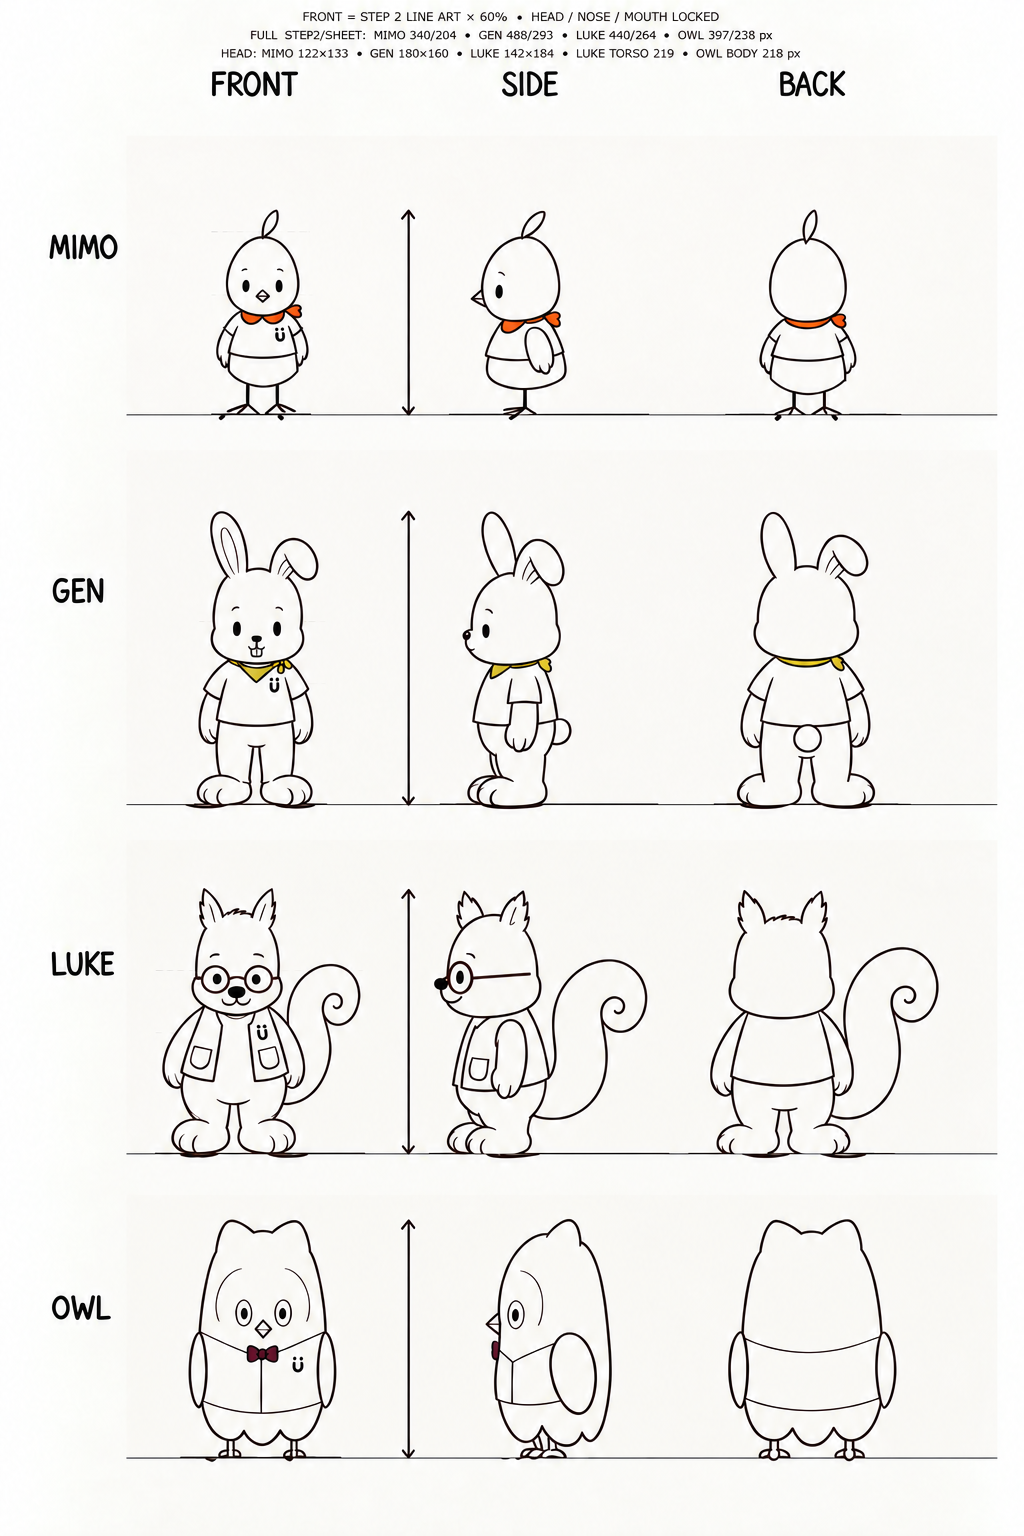
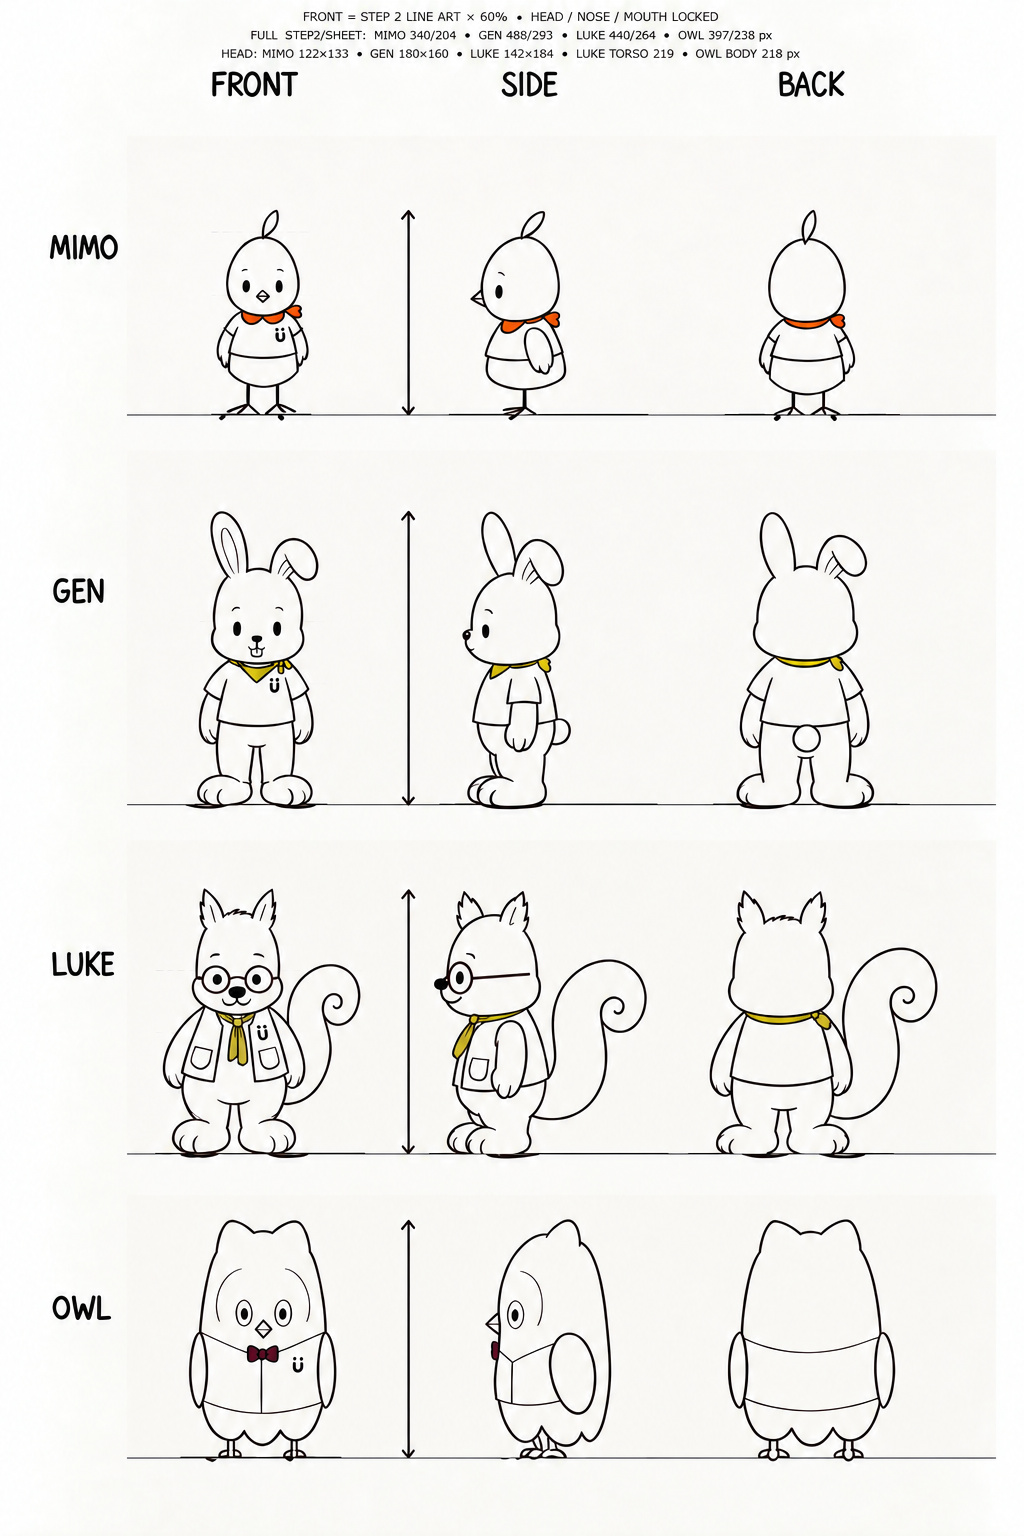
Update Luke accessories and step 4 limb constraints

diff --git a/planning/style-studies/output-process.html b/planning/style-studies/output-process.html
@@ -146,13 +146,13 @@
       {stepLabel:"STEP 1｜成人性の表現方針",title:"成人らしさを、人型化せずどの身体形式で表すか",note:"A＝SMALL MASCOT、B＝柔らかな成人マスコット、C＝人型成人を比較し、Aを採用する。Mimo・Gen・Lukeに加え、フクロウも大きな頭部量感、短い身体、小さな足を持つAへ統合する。成人性は長い脚や服装ではなく、控えめな顔、安定した立ち方、役割に合う反応で表す。",file:"outputs/groups/13-main-three-adult-mascot-policy-abc-comparison-v1.png",status:"A・SMALL MASCOT FIX",statusClass:"current"},
       {stepLabel:"STEP 2｜年齢感・頭身・相対身長",title:"A案を四人へ適用したとき、正面の頭身と身長差をどうするか",note:"STEP 1のA案だけを身体方針に使い、Mimo・Gen・Luke・フクロウを同じ接地線・同じ1536×1024座標系で正面化した。現実の体格差が直感的に伝わるよう、Mimoは一枚羽を含む全身を同比率で縮小し、シルエット全高を約340pxへ変更。フクロウ約397pxより明確に低く、四人の中で最小とした。Lukeも全身を約6%縮小して全高約440pxとし、Gen約488pxとの身長差を明確化。フクロウより少し高い位置を保ちながら、ぽっちゃりした胴体、大きな尻尾、丸い黒目、大きな丸鼻、広い口、細く短い眉は維持した。Genは鼻と口を小さく抑え、フクロウは幅のある頭胴一体型、短い翼、小さな足、本人の近用眼鏡を維持する。",file:"outputs/groups/main-three-owl-step1a-scale-check-v4-luke-brows.png",status:"Mimo最小・Luke約440px・四人の体格差 要確認",statusClass:"current"},
       {stepLabel:"STEP 2｜目・眼鏡の役割試作",title:"眼鏡をLumiからLukeへ移し、目の構造で役割を分けるとどう見えるか",note:"確定済みの身長・頭部・体型・配置は変更せず、顔の内部記号だけを比較する試作。Mimoは小さな点目を維持。Genは黒目の大きさを変えず、目の中心間距離だけを約6%狭め、既存の極小の鼻とW型の口の下へ、ごく小さな前歯2本を追加した。Lukeは黒目・眉・大きな横長鼻・W型の口を維持し、細部を見る作業時の小さな丸眼鏡を追加。Lumiは眼鏡を外し、旧レンズより小さい近接した白目と小さな黒目へ変更した。常用眼鏡の所有者を決める前に、Genのウサギらしさ、Lukeの観察性、Lumiの正面性が強まりすぎないかを確認する。",file:"outputs/groups/main-three-owl-step2-eye-glasses-transfer-prototype-v1.png",status:"Gen前歯・Luke丸眼鏡・Lumi白目 試作",statusClass:"current"},
-      {stepLabel:"STEP 2｜小物とアプリ配色試作",title:"身体を白く保ったまま、小さな色面で四人を識別できるか",note:"線を共通のダークブラウン #291712、背景と身体を白 #FFFFFFに揃え、小物だけへアプリ色を適用した。将来Mimoの身体を黄色にすることを想定し、丸襟と一体化した短い片結びスカーフはオレンジ #FF511B。Genは胸の高い位置で終わる三角ネッカチーフを黄 #D7C862。Lukeは追加の首飾りを避け、眼鏡フレームを線画と馴染むダークブラウン #291712。Lumiは嘴の下の小さな蝶ネクタイを紫 #7D2741とした。色面は全身の約2〜3%を上限とし、子どもより動物へ視線が集まりすぎないかを確認する。",file:"outputs/groups/main-three-owl-step2-accessory-color-prototype-v1.png",status:"Mimo橙・Gen黄・Luke茶・Lumi紫 試作",statusClass:"current"},
-      {stepLabel:"STEP 2｜PIXEL MEASUREMENT",title:"同じ1536×1024画像上で、四人の各パーツをどう比較するか",note:"最新版のSTEP 2正面PNGを描き直さず、1536×1024の同じ位置・同じピクセルで1:1配置し、その上へ寸法線だけを追加した。したがって計測図内の四人は正面比較図と完全に同じ相対比率で、Genの小さな鼻と口、Lukeの大きな丸鼻と広い口、眉、ぽっちゃりした輪郭もそのまま維持される。寸法文字は体型や尻尾へ重ならない外側の余白へ配置した。Mimoは一枚羽を含む全高340px・頭幅122px・頭高133px、Genは全高488px・頭幅180px・頭高160px、Lukeは全高440px・頭幅142px・頭高184px・胴幅219px。頭胴が連続するフクロウは、全高397px・身体外形幅218px・顔盤173×185px・翼長146pxとして記録する。眼鏡は内部記号のため外形寸法へ含めない。縦長チャット背景でMimoの全高を620pxとする場合は同率換算で、Gen 890px、Luke 802px、フクロウ724px。ポーズを変えても全身を一括拡縮し、各パーツ比率を維持する。",file:"outputs/groups/main-three-owl-step1a-pixel-guide.png",status:"顔造形・体型を1:1維持／寸法文字整理",statusClass:"current"},
+      {stepLabel:"STEP 2｜小物とアプリ配色試作",title:"身体を白く保ったまま、小さな色面で四人を識別できるか",note:"線を共通のダークブラウン #291712、背景と身体を白 #FFFFFFに揃え、小物だけへアプリ色を適用した。将来Mimoの身体を黄色にすることを想定し、丸襟と一体化した短い片結びスカーフはオレンジ #FF511B。Genは胸の高い位置で終わる三角ネッカチーフを黄 #D7C862。Lukeは黒目を通常顔用にわずかに小さくし、細く小さい丸眼鏡を少し低い位置へ掛け、首を締めて見せない細幅の前結びスカーフを黄 #D7C862とした。Lumiは嘴の下の小さな蝶ネクタイを紫 #7D2741とした。色面は全身の約2〜3%を目安とし、子どもより動物へ視線が集まりすぎないかを確認する。",file:"outputs/groups/main-three-owl-step2-accessory-color-prototype-v1.png",status:"Mimo橙・Gen黄・Luke黄スカーフ＋丸眼鏡・Lumi紫 試作",statusClass:"current"},
+      {stepLabel:"STEP 2｜PIXEL MEASUREMENT",title:"同じ1536×1024画像上で、四人の各パーツをどう比較するか",note:"小物を検討する前の正面形を、1536×1024の同じ位置・同じピクセルで1:1配置し、その上へ寸法線だけを追加した。計測図ではスカーフやLukeの眼鏡を付けず、外形と顔・体格の基準だけを確認する。Genの小さな鼻と口、Lukeの通常顔用にわずかに小さくした黒目、大きな丸鼻、広い口、眉、ぽっちゃりした輪郭を維持する。Mimoは全高340px・頭幅122px・頭高133px、Genは全高488px・頭幅180px・頭高160px、Lukeは全高440px・頭幅142px・頭高184px・胴幅219px。フクロウは全高397px・身体外形幅218px・顔盤173×185px・翼長146pxとして記録する。縦長背景では全身を一括拡縮し、各パーツ比率を維持する。",file:"outputs/groups/main-three-owl-step1a-pixel-guide.png",status:"小物なし・顔造形・体型を1:1維持",statusClass:"current"},
       {type:"note",label:"STEP 2 ACCEPTANCE｜正面FIX条件",text:"①三人とも幼児ではなく小さな成人に見える、②同じ地面と縮尺で相対身長を比較できる、③頭部が身体を圧迫しない、④正面シルエットだけで識別できる。承認後、このPNGをSTEP 3の唯一の形状参照にする。"},
-      {stepLabel:"STEP 3｜三方向の立体整合",title:"FIXした正面形を変えず、横・後ろをどう成立させるか",note:"正面列は再生成せず、STEP 2で確定した四人の線画をすべて共通60%で直接配置した。SIDE／BACKも各輪郭の最上点から接地までを測り、縦横比を保った一括拡縮で同じ行のFRONTと全高を一致させた。原寸／三面図内の三方向共通全高はMimo 340／204px、Gen 488／293px、Luke 440／264px、フクロウ397／238px。各行の正面へ全高寸法線を付け、頭部原寸もMimo 122×133px、Gen 180×160px、Luke 142×184px、Luke胴幅219px、フクロウ身体幅218pxとして画像上部へ明記した。GenのSIDE／BACKは正面の横に広い柔らかな四角頭を基準に、側面の後頭部を立て、低い顎と控えめな奥行き、直立耳と折れ耳の付け根を整合。LukeのSIDE／BACKは正面の低い幅広丸頭を基準に、頬と下顔面の量感、大きな丸い鼻先、左右の毛耳の間隔、首と低い尻尾の付け根を整合した。Genの極小の鼻と短い口、Lukeの丸い黒目・細い眉・大きな横長鼻・広いW型の口はSTEP 2から維持する。Lukeは肩幅を広げず、首元から肩先・上腕へ続く線を緩い曲線にし、SIDE／BACKでも上背部を丸く接続して、ぽっちゃりした体型と軽い猫背が一続きに見えるよう整えた。姿勢差は、Mimo＝足元を保った軽い前傾、Gen＝直立・中央重心、Luke＝頭が胸より少し前へ出る軽い猫背と片足寄り、フクロウ＝首を引いて上体をわずかに後ろへ置く姿勢とし、いずれも約5度以内に抑えた。縮小時は四人・三方向へ同じ線濃度補正を一度だけ適用し、輪郭形状を膨張させず線の見え方を揃えた。",file:"outputs/groups/main-three-owl-small-mascot-turnaround.png",status:"Luke肩の丸み・三方向同高FIX",statusClass:"current"},
+      {stepLabel:"STEP 3｜三方向の立体整合",title:"FIXした正面形を変えず、横・後ろをどう成立させるか",note:"小物なしの正面形を共通60%で配置し、SIDE／BACKも縦横比を保った一括拡縮で同じ行のFRONTと全高を一致させた。原寸／三面図内の三方向共通全高はMimo 340／204px、Gen 488／293px、Luke 440／264px、フクロウ397／238px。Lukeは通常顔用の小さめの黒目を正面と横で対応させ、横は見える目を1つ、後ろは顔パーツなしとする。眼鏡・スカーフなどの小物はこの立体確認には追加しない。Lukeの首元から肩先・上腕へ続く緩い曲線、ぽっちゃりした胴体、軽い猫背、大きなしっぽの付け根を三方向で維持する。",file:"outputs/groups/main-three-owl-small-mascot-turnaround.png",status:"小物なし・Luke肩の丸み・三方向同高FIX",statusClass:"current"},
       {type:"note",label:"STEP 3 ACCEPTANCE｜三面図FIX条件",text:"正面の頭部外形・耳位置・顔パーツがSTEP 2と同一／各行のFRONT・SIDE・BACKは最上点から接地まで同じ全高／Genの柔らかな四角頭・極小の鼻・短い口と、Lukeの低い幅広丸頭・大きな横長鼻・広いW型の口を取り違えない／三方向の肩・腰・接地線が対応できる／Mimoの軽い前傾、Genの直立、Lukeの軽い猫背、フクロウのわずかな後傾が約5度以内で読める／耳・冠羽・尻尾・翼の付け根が説明できる／フクロウの眼鏡は正面と横だけに現れ、後ろでは保持線を増やさない。ここでは衣装装飾を増やさない。"},
-      {stepLabel:"STEP 4｜服・手・線の制約",title:"手足を独立させる案と、胴体へつなげる案を比べる",beforeFile:"outputs/groups/50-main-three-small-mascot-feedback-constraints-turnaround-v2-luke-face-lock.png",afterFile:"outputs/groups/51-main-four-small-mascot-step4-integrated-limbs-v1.png",beforeLabel:"手足を独立パーツとして残す",afterLabel:"元の体型のまま接続線だけを弱める",note:"両案とも最新STEP 3の頭部・胴体・全高・相対身長・足形と、短丈の服・四人共通の小さなUを維持する。その上へSTEP 2試作の目と小物を同条件で反映した。Mimoは橙 #FF511Bの短い片結びスカーフ、Genは近い黒目・小さな前歯2本・黄 #D7C862の短いネッカチーフ、Lukeはダークブラウン #291712の小さな丸眼鏡、Lumiは眼鏡を外した白目＋黒目と紫 #7D2741の小さな蝶ネクタイ。SIDE／BACKでは首帯・結び目・眼鏡の見える範囲を立体に合わせ、背面へ不要な顔パーツを増やさない。右案は形を作り直さず、肩・手首などの接続線だけを減らした。MimoとLumiの細い鳥脚・三つ叉の足も左案と同じ造形を保持する。",points:["STEP 2の目・小物を三方向へ反映","元の体型・足形・Uを固定","手足の接続線だけを比較"]},
-      {type:"note",label:"STEP 4 ACCEPTANCE｜制約適用条件",text:"服・目・小物を加えてもSTEP 3の輪郭と接地位置が変わらない／Mimo橙・Gen黄・Luke茶・Lumi紫の色役割を左右案で統一／Mimoの正面スカーフは尖った三角形にせず、丸い左右2片＋片側の短い結び目を維持／Genの前歯は正面と必要な横角度だけに現れる／Lukeの眼鏡は正面と横だけに現れ、後ろへ保持線を増やさない／Lumiは眼鏡なし・白目＋黒目を維持／スカーフ・ネッカチーフ・蝶ネクタイは背面で首帯と結び目だけに整理／Uは左胸へ小さく配置し、小物で隠さない／手先・翼端に指や爪が戻らない。"},
+      {stepLabel:"STEP 4｜服・手・線の制約",title:"手足を独立させる案と、胴体へつなげる案を比べる",beforeFile:"outputs/groups/50-main-three-small-mascot-feedback-constraints-turnaround-v2-luke-face-lock.png",afterFile:"outputs/groups/51-main-four-small-mascot-step4-integrated-limbs-v1.png",beforeLabel:"手足を独立パーツとして残す",afterLabel:"元の体型のまま接続線だけを弱める",note:"両案とも小物なしのSTEP 3で固定した頭部・胴体・全高・相対身長・足形を変えず、この工程で初めてSTEP 2の小物試作を同条件で重ねる。Mimoは橙 #FF511Bの短い片結びスカーフ、Genは黄 #D7C862の短いネッカチーフ、Lukeは細く小さい丸眼鏡と黄 #D7C862の細幅前結びスカーフ、Lumiは紫 #7D2741の小さな蝶ネクタイ。Lukeの眼鏡は正面と横だけ、スカーフは正面で結びと2本の細い端、横で見える結び、後ろで首帯と小さな結びだけを示す。左右案の差は手足の接続線だけとし、目・小物・体型は揃える。",points:["STEP 2の目・小物を三方向へ反映","元の体型・足形・Uを固定","手足の接続線だけを比較"]},
+      {type:"note",label:"STEP 4 ACCEPTANCE｜制約適用条件",text:"服・目・小物を加えてもSTEP 3の輪郭と接地位置が変わらない／Mimo橙・Gen黄・Luke黄スカーフ・Lumi紫の色役割を左右案で統一／Mimoの正面スカーフは尖った三角形にせず、丸い左右2片＋片側の短い結び目を維持／Genの前歯は正面と必要な横角度だけに現れる／Lukeの眼鏡は正面と横だけに現れ、後ろへ保持線を増やさない／Lukeの細幅スカーフは首を締めて見せず、正面・横・後ろで同じ結び構造にする／Lumiは眼鏡なし・白目＋黒目を維持／スカーフ・ネッカチーフ・蝶ネクタイは背面で首帯と結び目だけに整理／Uは左胸へ小さく配置し、小物で隠さない／手先・翼端に指や爪が戻らない。"},
       {stepLabel:"STEP 5｜表情とポーズの演技",title:"三面図を変形せず、役割の動詞をどう読ませるか",note:"既存のMimo＝気づく／聞く／待つ／返す、Gen＝誘う／気づく／合わせる／小さく祝う、Luke＝観察／比較／ひらめく／試すの演技検討をそのまま維持する。三人の造形・ポーズ・配置は変更せず、フクロウは次の追加カードで確認する。",file:"outputs/groups/46-main-three-small-mascot-pose-expression-monochrome-v6-after-heads-current.png",status:"既存三人・変更なし",statusClass:"current"},
       {stepLabel:"STEP 5｜OWL追加",title:"フクロウ先生の役割を8つの動詞と言葉で読ませる",note:"前後を並べる／時間をつなぐ／新事実に気づく／結論を待つ／違いを比べる／感情を受け止める／仮説を開く／納得して揃える、の8動作を追加した。カード、時計、眼鏡、翼全体の動きだけを使い、冷たい分析役や説教する先生へ寄せない。",file:"outputs/characters/fukurou/fukurou-character-acting-sheet.png",status:"フクロウ8動作・言葉要確認",statusClass:"current"},
       {type:"note",label:"STEP 5 ACCEPTANCE｜演技FIX条件",text:"各ポーズをSTEP 3三面図へ重ね、頭幅・頭高・胴長・翼長を照合／顔を隠しても動詞が読める／1ポーズ1動詞・小道具1系統／指や人型の手を描かない／感情を受け止めてから事実を整理する順序が見える。差分はポーズ側だけを直し、前STEPへ逆流させない。"}
